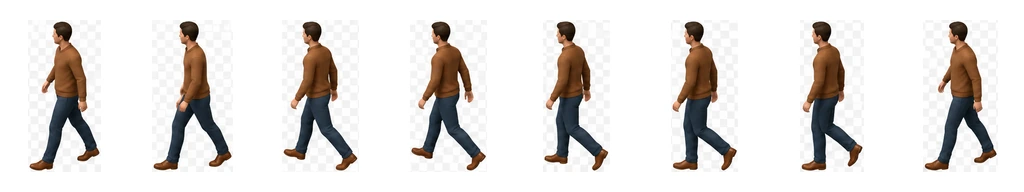
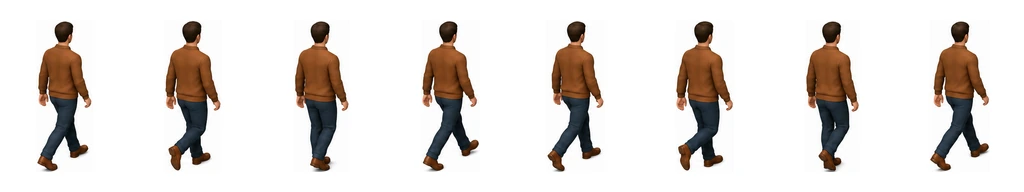
feat: animate visitors entering the town hall

diff --git a/src/components/town-hall-scene.module.css b/src/components/town-hall-scene.module.css
@@ -2,6 +2,11 @@
   position: relative;
 }
 
+.filters {
+  position: absolute;
+  overflow: hidden;
+}
+
 .motion {
   position: absolute;
   inset: 0;
@@ -26,7 +31,6 @@
 
 .citizen {
   position: absolute;
-  mix-blend-mode: multiply;
 }
 
 .sprite {
@@ -43,8 +47,8 @@
   height: 100%;
   aspect-ratio: auto;
   object-fit: fill;
-  filter: brightness(1.16);
-  animation: frames 1.2s steps(8, end) infinite;
+  filter: var(--sprite-filter);
+  animation: frames 1.12s steps(8, end) infinite;
 }
 
 .conversation {
@@ -56,13 +60,13 @@
   animation: frames 3.6s steps(4, end) infinite;
 }
 
-.entrance {
-  left: 43.62%;
-  top: 54.88%;
+.services {
+  left: 62.25%;
+  top: 63.2%;
   width: 6.67%;
 }
 
-.entrance .strip {
+.services .strip {
   animation-delay: -1.8s;
 }
 
@@ -74,30 +78,52 @@
 
 .walker {
   width: 4.17%;
-  animation: stroll 14.4s linear infinite;
+  transform-origin: 50% 89.5833%;
+  animation-duration: 18.8s;
+  animation-timing-function: linear;
+  animation-iteration-count: infinite;
 }
 
-.direction {
-  animation: direction 14.4s step-end infinite;
+.walker::before {
+  content: "";
+  position: absolute;
+  left: 35%;
+  top: 89%;
+  width: 30%;
+  height: 3%;
+  border-radius: 50%;
+  background: rgb(45 38 23 / 20%);
+  filter: blur(0.6px);
 }
 
 .rightWalker {
-  left: 59.57%;
-  top: 67.87%;
+  left: 61.39%;
+  top: 67.97%;
+  animation-name: approach-right;
+  animation-delay: -9.4s;
+}
+
+.rightWalker .direction {
+  transform: scaleX(-1);
 }
 
 .centerWalker {
-  left: 37.2%;
-  top: 63.4%;
-  animation-delay: -7.2s;
+  left: 33.07%;
+  top: 67.09%;
+  animation-name: approach-left;
 }
 
-.centerWalker .direction {
-  animation-delay: -7.2s;
+.rightWalker .strip {
+  animation-delay: -0.56s;
 }
 
-.centerWalker .strip {
-  animation-delay: -0.6s;
+.artwork .foreground {
+  position: absolute;
+  inset: 0;
+}
+
+.foreground {
+  clip-path: polygon(55.5% 65.45%, 57.1% 65.45%, 57.1% 68.65%, 56.6% 68.65%, 56.6% 80.3%, 56.2% 80.3%, 56.2% 68.65%, 55.5% 68.65%);
 }
 
 .caption {
@@ -142,14 +168,32 @@
   to { transform: translateX(-100%); }
 }
 
-@keyframes stroll {
-  0%, 100% { transform: translate(0, 0); }
-  50% { transform: translate(-90%, -24%); }
+@keyframes approach-left {
+  0% { transform: translate(0, 0) scale(1); opacity: 0; }
+  5% { transform: translate(18.75%, -10.42%) scale(1); opacity: 1; }
+  20% { transform: translate(75%, -29.17%) scale(0.98); }
+  40% { transform: translate(165.63%, -64.58%) scale(0.95); }
+  58% { transform: translate(250%, -96.88%) scale(0.92); }
+  66% { transform: translate(276.56%, -114.58%) scale(0.90); }
+  72% { transform: translate(292.19%, -128.13%) scale(0.88); }
+  78% { transform: translate(309.38%, -141.67%) scale(0.87); }
+  84% { transform: translate(325%, -157.29%) scale(0.86); opacity: 1; filter: brightness(1); }
+  88% { transform: translate(331.25%, -165.63%) scale(0.83); opacity: 0.6; filter: brightness(0.55); }
+  92%, 100% { transform: translate(331.25%, -175%) scale(0.80); opacity: 0; filter: brightness(0.2); }
 }
 
-@keyframes direction {
-  0% { transform: scaleX(1); }
-  50% { transform: scaleX(-1); }
+@keyframes approach-right {
+  0% { transform: translate(0, 0) scale(1); opacity: 0; }
+  5% { transform: translate(-20%, -10.42%) scale(1); opacity: 1; }
+  20% { transform: translate(-95.31%, -45.83%) scale(0.98); }
+  40% { transform: translate(-212.5%, -79.17%) scale(0.95); }
+  58% { transform: translate(-325%, -102.08%) scale(0.92); }
+  66% { transform: translate(-359.38%, -121.88%) scale(0.90); }
+  72% { transform: translate(-357.81%, -140.63%) scale(0.88); }
+  78% { transform: translate(-354.69%, -151.04%) scale(0.87); }
+  84% { transform: translate(-350%, -166.67%) scale(0.86); opacity: 1; filter: brightness(1); }
+  88% { transform: translate(-353.13%, -175%) scale(0.83); opacity: 0.6; filter: brightness(0.55); }
+  92%, 100% { transform: translate(-353.13%, -184.38%) scale(0.80); opacity: 0; filter: brightness(0.2); }
 }
 
 @media (max-width: 760px) {

diff --git a/src/components/town-hall-scene.tsx b/src/components/town-hall-scene.tsx
@@ -1,7 +1,7 @@
 "use client";
 
 import Image from "next/image";
-import { useEffect, useRef, useState, useSyncExternalStore } from "react";
+import { type CSSProperties, useEffect, useId, useRef, useState, useSyncExternalStore } from "react";
 import styles from "./town-hall-scene.module.css";
 
 const motionQuery = "(prefers-reduced-motion: reduce)";
@@ -44,6 +44,7 @@ function Citizen({ conversation = false }: { conversation?: boolean }) {
 }
 
 export function TownHallScene() {
+  const spriteFilter = useId();
   const reducedMotion = useSyncExternalStore(
     subscribeToMotion,
     getReducedMotion,
@@ -94,11 +95,25 @@ export function TownHallScene() {
       ref={figure}
       className="hero-figure"
       data-animation-paused={paused || !visible}
+      style={{ "--sprite-filter": `url("#${spriteFilter}")` } as CSSProperties}
     >
+      <svg width="0" height="0" className={styles.filters} aria-hidden="true" focusable="false">
+        <defs>
+          <filter id={spriteFilter} colorInterpolationFilters="sRGB">
+            <feColorMatrix
+              type="matrix"
+              values="1 0 0 0 0  0 1 0 0 0  0 0 1 0 0  -0.333333 -0.333333 -0.333333 0 1"
+            />
+            <feComponentTransfer>
+              <feFuncA type="linear" slope="10" intercept="-1" />
+            </feComponentTransfer>
+          </filter>
+        </defs>
+      </svg>
       <div className={styles.scene}>
         <Image
           src="/images/mairie-collectif.webp"
-          alt="Une mairie et ses services autour d’un parvis où des personnes marchent et discutent."
+          alt="Des personnes échangent sur le parvis de la mairie tandis que des visiteurs montent les marches et entrent dans le bâtiment."
           width={1536}
           height={1024}
           sizes="(max-width: 760px) 100vw, 65vw"
@@ -115,7 +130,7 @@ export function TownHallScene() {
                 alt=""
                 loading="eager"
               />
-              <div className={`${styles.citizen} ${styles.entrance}`}>
+              <div className={`${styles.citizen} ${styles.services}`}>
                 <Citizen conversation />
               </div>
               <div className={`${styles.citizen} ${styles.plaza}`}>
@@ -131,6 +146,14 @@ export function TownHallScene() {
                   <Citizen />
                 </div>
               </div>
+              <Image
+                className={`${styles.plate} ${styles.foreground}`}
+                src={animationAssets[0]}
+                width={1536}
+                height={1024}
+                alt=""
+                loading="eager"
+              />
             </div>
           </div>
         )}
